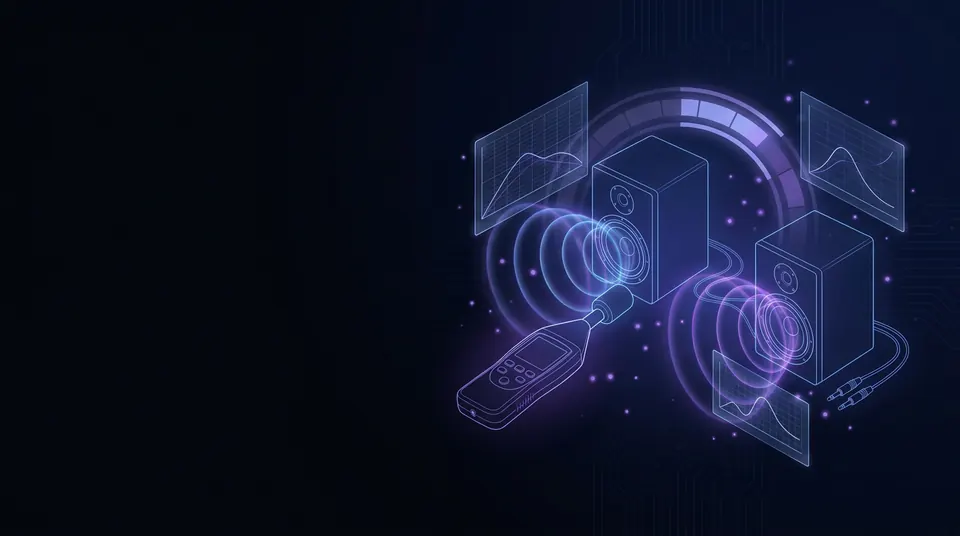
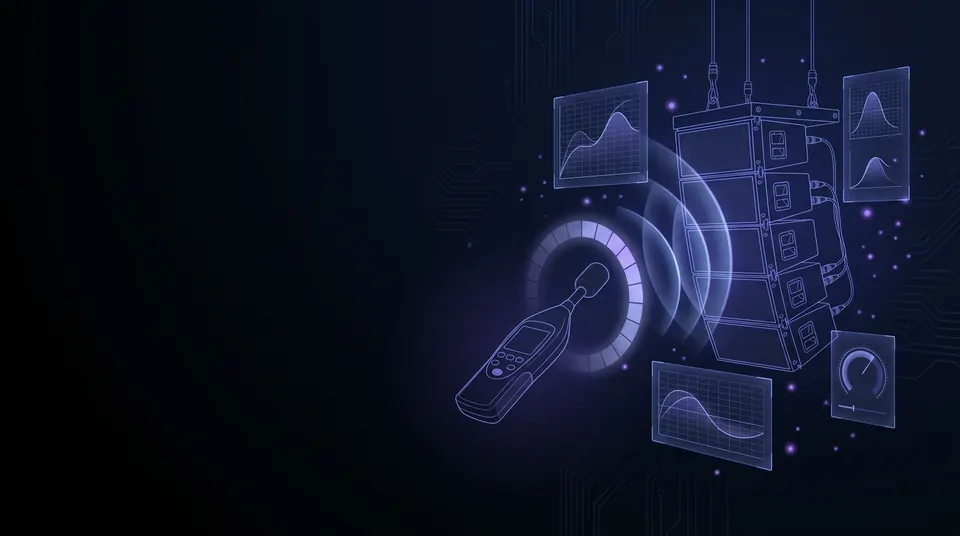
D29: owner's replacement art for the SPL & Hearing Safety and Music & Production calc tiles
The SPL meter no longer has an invented cable to a speaker; the keyboard
in Music & Production is drawn cleanly. Same 960x536 WebP, same names.

Changed region(s): [[0.4688, 0.0, 0.9688, 0.8955]]

diff --git a/docs/CROSS_SESSION_HANDOFF.md b/docs/CROSS_SESSION_HANDOFF.md
@@ -675,6 +675,12 @@ A = Cowork (backend/DB/governance). ccode = Claude Code (the `ape-studio` client
 
 ## LOG (newest first)
 
+### 2026-10-29 01:01 · ccode · 7c873f92
+changed: D29: Calculator Lab section tiles get the owner's background art
+affects other side: nothing — app-only tile art, bundled.
+needs: nothing [MD:D29].
+
+
 ### 2026-10-28 23:52 · ccode · 1d3f40e6
 changed: D29: Audio Fundamentals lab tiles get the owner's background art
 affects other side: nothing — app-only tile art, bundled.
